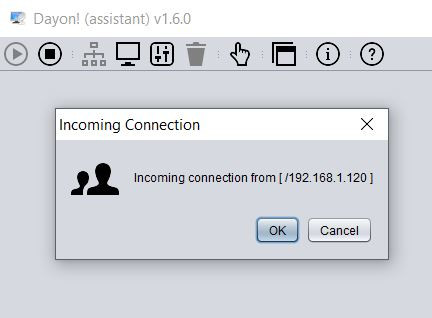
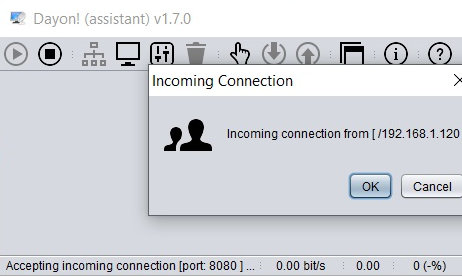
Updated documentation

diff --git a/docs/fr_quickstart.html b/docs/fr_quickstart.html
@@ -20,16 +20,16 @@
 		<div id="content">
 			<h2>Premier Pas</h2>
 			<p>
-				Typiquement, l'<i>assistant</i> discute avec l'<i>assisté</i> en utilisant Skype, le téléphone, son IM préféré, ou n'importe quel autre outil. Ensuite, en démarrant Dayon! il peut visualiser en direct l'écran de l'ordinateur de l'<i>assisté</i>.
+				Typiquement, l'<i>assistant</i> discute avec l'<i>assistée</i> en utilisant Skype, le téléphone, son IM préféré, ou n'importe quel autre outil. Ensuite, en démarrant Dayon! il peut visualiser en direct l'écran de l'ordinateur de l'<i>assistée</i>.
 			<p>Notez que les images sur cette page correspondent à la version anglaise mais que l'application elle-même est complètement traduite. Je pense que cela ne devrait pas vous empêcher de comprendre l'essentiel.
 			<p>
 				<img src="assistant.png" alt="Assistant"> &nbsp; <a name="assistant-setup"><b>Mise en Route Coté Assistant</b></a>
 			<p>
-				Dayon! Assistant se comporte comme une application serveur (vers laquelle l'<i>assisté</i> va se connecter). Vous devez donc configurer le réseau pour rendre votre application visible depuis l'extérieur. La première chose à faire est de configurer le
+				Dayon! Assistant se comporte comme une application serveur (vers laquelle l'<i>assistée</i> va se connecter). Vous devez donc configurer le réseau pour rendre votre application visible depuis l'extérieur. La première chose à faire est de configurer le
 				numéro de <b>port d'écoute</b> comme indiqué sur l'image suivante. Ensuite, il faudra autoriser ce port dans votre <b>parefeu</b> et sans doute configurer un service <b>NAT</b> sur votre routeur DSL.<br> <img src="assistant_network_settings.jpg"
 					alt="Dayon! Assistant: Network Settings">
 			<p>
-				Ensuite, vous devez décider quelle <b>addresse IP</b> vous voulez communiquer à l'<i>assisté</i> pour qu'il se connecte sur votre ordinateur; vous devez en principe donner votre addresse IP <b>publique</b>. Mais pour un test sur votre réseau local (ou
+				Ensuite, vous devez décider quelle <b>addresse IP</b> vous voulez communiquer à l'<i>assistée</i> pour qu'il se connecte sur votre ordinateur; vous devez en principe donner votre addresse IP <b>publique</b>. Mais pour un test sur votre réseau local (ou
 				sur votre PC en local), vous pouvez utiliser une addresse privée. Vous pouvez obtenir votre <b>addresse IP publique</b> avec le menu suivant: <img src="assistant_network_addresses.jpg" alt="Dayon! Assistant: Network IP Addresses">
 			<p>
 				Comme vous pouvez le voir sur l'image suivante, le menu contient différentes actions vous permettant de copier dans le clipboard l'<b>IP Address & Port Number</b>. Il vous sera ainsi facile de coller dans une session Skype (ou autre) ou dans un message
@@ -37,24 +37,28 @@
 			</p>
 			<img src="assistant_network_addresses_ex.jpg" alt="Dayon! Assistant: Network IP Address Actions">
 			<p>
-				<i> Noter que cette addresse IP n'est pas requise pour l'<i>assistant</i>. En effet, l'application écoute sur toutes les interfaces réseaux disponibles; mais la personne assisté va avoir besoin de ces informations.
+				<i> Noter que cette addresse IP n'est pas requise pour l'<i>assistant</i>. En effet, l'application écoute sur toutes les interfaces réseaux disponibles; mais la personne assistée va avoir besoin de ces informations.
 				</i>
 			</p>
 			<p>
-				C'est tout pour la configuration réseau; vous trouverez plus de détails <a href="#assistant-details">ci-desous</a>. Mais voyons tout d'abord comment mettre en place le côté <i>assisté</i>.
+				C'est tout pour la configuration réseau; vous trouverez plus de détails <a href="#assistant-details">ci-desous</a>. Mais voyons tout d'abord comment mettre en place le côté <i>assistée</i>.
 			<p>
-				<img src="assisted.png" alt="Assisted"> &nbsp; <a name="assisted-setup"><b>Mise en Route Coté Assisté</b></a>
-			<p>Dayon! Assisté se comporte comme un client qui appelle le monde extérieur; à ce titre il n'y a pas de configuration réseau à faire.
+				<img src="assisted.png" alt="Assisted"> &nbsp; <a name="assisted-setup"><b>Mise en Route Coté assistée</b></a>
 			<p>
-				Il faut télécharger et installer Dayon! comme sur pour le côté assistant. Et ensuite démarrer l' <i>Dayon!</i> (vous devriez avoir un raccourci sur le bureau) et entrer l'addresse IP et le numéro de port communiqué par l'<i>assistant</i>: <img
-					src="assisted_start.jpg" alt="Dayon! Assisted : Starting">
+				Dayon! assistée se comporte comme un client qui appelle le monde extérieur; à ce titre il n'y a pas de configuration réseau à faire.
+			<p>
+				Il faut télécharger et installer Dayon! comme sur pour le côté assistant. Et ensuite démarrer l' <i>Dayon!</i> (vous devriez avoir un raccourci sur le bureau) et entrer l'addresse IP et le numéro de port communiqué par l'<i>assistant</i>:
+			<p>
+				<img src="assisted_start.jpg" alt="Dayon! Assisted : Starting">
 			<p>
 				Vous serez alors promptement connecté à l'<i>assistant</i> qui sera déjà en train de regarder votre écran. Bonne session!
 			<p>
 				<img src="assistant.png" alt="Assistant"> &nbsp; <a name="assistant-details"><b>Mise en Route Coté Assistant (La Suite)</b></a>
 			<p>
 				Cette forme vous permet de configurer la façon dont l'écran est <b>capturé</b>; vous pouvez configurer l'interval de temps (en milli-seconde) entre deux captures (aka. tic-tac) ainsi que le nombre de niveau de gris. Moins de niveaux veut dire moins
-				d'information à transmettre sur le réseau (au détriment de la qualité des images). <img src="assistant_capture_settings.jpg" alt="Dayon! Assistant: Capture Settings">
+				d'information à transmettre sur le réseau (au détriment de la qualité des images).
+			<p>
+				<img src="assistant_capture_settings.jpg" alt="Dayon! Assistant: Capture Settings">
 			<p>
 				Vous pouvez ensuite configuer la méthode de <b>compression</b>; trois méthodes sont disponibles: ZIP, BZIP2 and LZMA. BZIP2 et LZMA devraient donner les meilleurs résultats mais demandent plus de CPU; elles sont bien plus compliquées que ZIP et sont de
 				plus implémentées en JAVA (ZIP étant implémenté en code natif dans le JDK).
@@ -72,13 +76,24 @@
 			<p>
 				<img src="assistant_start.jpg" alt="Dayon! Assistant : Start">
 			<p>
-				Vous pouvez maintenant demander à l'<i>assisté</i> de se connecter. Vous serez alors promptement requis d'accepter une nouvelle connexion:
+				Vous pouvez maintenant demander à l'<i>assistée</i> de se connecter. Vous serez alors promptement requis d'accepter une nouvelle connexion:
 			<p>
 				<img src="assistant_incoming_connection.jpg" alt="Dayon! Assistant : Incoming Connection">
 			<p>
 				Vous voila connecté visualisant l'ordinateur à distance.
 			<p>
-				<img src="assistant_connected.jpg" alt="Dayon! Assistant : Running">
+				<img src="assistant_connected.jpg" alt="Dayon! Assistent : Running">
+			<p>
+				En cliquant sur le bouton haut ou bas, le presse-papiers de l’assistant peut être transféré vers l’assistée (haut) ou le presse-papiers de l’assistée vers l’assistant (bas).
+			<p>
+				<img src="assistant_clipboard.jpg" alt="Dayon! Assistent : Clipboard transfer">
+			<p>
+				Actuellement pris en charge sont:
+				<ul>
+					<li>Texte: sélectionnez du texte localement ou dans la fenêtre assistée, copiez (<code>Ctl + c</code>), cliquez vers le haut ou le bas. Ensuite, le texte transmis peut être inséré dans une application locale ou distante (<code>Ctrl + v</code>).
+					<li>Fichiers: sélectionnez un ou plusieurs fichiers localement ou dans la fenêtre de la personne assistée (<code>Ctl + c</code>), cliquez vers le haut ou le bas. Ensuite, le ou les fichiers peuvent être insérés à la destination.
+				</ul>
+				<strong>Attention</strong>: Le transfert de répertoires (dossiers) n'est pas pris en charge. De plus, la fonction est très limitée pour la transmission de gros fichiers. D'une part, la vitesse de transmission est très modeste et, d'autre part, le récepteur ne peut pas recevoir de commandes ni de mouvements de souris avant la fin de la transmission.
 			<p>
 				That's all folk! Vous trouverez plus d'information sur la page <a href="fr_support.html">support</a>.
 		</div>

diff --git a/docs/de_quickstart.html b/docs/de_quickstart.html
@@ -30,11 +30,14 @@
 				geöffnet. In den meisten Fällen wird es notwendig sein, diesen Port via <b>NAT</b> auf dem <b>Router</b> an den entsprechenden Rechner weiter zu leiten. Bebilderte Schritt-für-Schritt-Anleitungen für das Einrichten von Portweiterleitungen für die
 				gängigsten Router Modelle finden Sie <a href="https://portforward.com/router.htm">hier</a><br> <img src="assistant_network_settings.jpg" alt="Dayon! Assistent: Network Settings">
 			<p>
-				Um die öffentliche <b>IP-Adresse</b> ihres Rechners zu ermitteln, mit welchem sich der <i>Assistierte</i> verbinden wird, klicken Sie auf <b>Ermittle meine IP-Adresse (öffentlich)</b>. Fürs Testen im LAN genügt hingegen die private IP-Adresse:<br>
+				Um die öffentliche <b>IP-Adresse</b> ihres Rechners zu ermitteln, mit welchem sich der <i>Assistierte</i> verbinden wird, klicken Sie auf <b>Ermittle meine IP-Adresse (öffentlich)</b>. Fürs Testen im LAN genügt hingegen die private IP-Adresse:
+			<p>
 				<img src="assistant_network_addresses.jpg" alt="Dayon! Assistent: Network IP-Adressees">
 			<p>
 				Wie Sie im nächsten Bild erkennen, enthält das Menü auch eine Rubrik <b>Kopiere IP-Adresse & Portnummer</b>, welche die IP-Adresse und die zuvor konfigurierte Portnummer in die Zwischenablage kopiert. So können Sie diese Informationen beispielsweise
-				einfach in ihre <b>Chat-Sitzung</b> (z.B. Skype) oder in eine E-Mail einfügen.<br> <img src="assistant_network_addresses_ex.jpg" alt="Dayon! Assistent: Network IP-Adresse Actions">
+				einfach in ihre <b>Chat-Sitzung</b> (z.B. Skype) oder in eine E-Mail einfügen.
+			<p>
+				<img src="assistant_network_addresses_ex.jpg" alt="Dayon! Assistent: Network IP-Adresse Actions">
 			<p>
 				<i>Beachten Sie dass die IP-Adresse für den Assistenten irrelevant ist, da die Applikation an allen verfügbaren Netzwerkschnittstellen horcht; Sie benötigen diese Angaben jedoch um sie dem Assistierten zu kommunizieren. (mehr zu diesem Thema
 					später). </i>
@@ -42,7 +45,8 @@
 				Das wär's bezüglich Netzwerkkonfiguration; Sie finden weitere Details <a href="#assistant-details">weiter unten</a>. Lassen Sie uns zuerst einen Blick auf die Konfiguration des <i>Assistierten</i> werfen.
 			<p>
 				<img src="assisted.png" alt="Assistierter"> &nbsp; <a name="assistant-setup"><b>Konfiguration Assistierter</b></a>
-			<p>Der Assistierte (Dayon!) ist eine Client-Anwendung, welche den Assistenten kontaktiert. Dadurch entfallen allfällige Netzwerkkonfigurationen auf dieser Seite.
+			<p>
+				Der Assistierte (Dayon!) ist eine Client-Anwendung, welche den Assistenten kontaktiert. Dadurch entfallen allfällige Netzwerkkonfigurationen auf dieser Seite.
 			<p>
 				Dayon! herunter laden und installieren (identisch wie beim Assistenten). Danach die <i>Dayon!</i> Applikation starten (Sie sollten eine entsprechende Verknüpfung auf ihrem Desktop vorfinden) und die vom <i>Assistenten</i> mitgeteilte IP-Adresse und
 				Portnummer eintragen:<br> <img src="assisted_start.jpg" alt="Dayon! Assistierter : Starting">
@@ -51,7 +55,8 @@
 			<p>
 				<img src="assistant.png" alt="Assistent"> &nbsp; <a name="assistant-details"><b>Mehr zur Konfiguration des Assistenten</b></a>
 			<p>
-				Hier kann der <i>Assistent</i> definieren, wie der Bildschirm des <i>Assistierten</i> <b>erfasst</b> werden soll; Es kann sowohl der Intervall (in Millisekunden) zwischen zwei Aufnahmen (Tick), als auch die Anzahl Graustufen definiert werden.<br>
+				Hier kann der <i>Assistent</i> definieren, wie der Bildschirm des <i>Assistierten</i> <b>erfasst</b> werden soll; Es kann sowohl der Intervall (in Millisekunden) zwischen zwei Aufnahmen (Tick), als auch die Anzahl Graustufen definiert werden.
+			<p>
 				<img src="assistant_capture_settings.jpg" alt="Dayon! Assistent: Capture Settings">
 			<p>
 				Da kann die <b>Komprimierung</b> festgelegt werden; Es stehen drei verschiedene Methoden zur Auswahl: ZIP, BZIP2 und LZMA. BZIP2 und LZMA sollten für einen besseren Komprimierungsgrad sorgen, benötigen aber etwas mehr Rechenleistung (verursachen
@@ -77,6 +82,17 @@
 				Nun sind Sie mit dem entfernten Computer verbunden und sehen dessen Desktop:
 			<p>
 				<img src="assistant_connected.jpg" alt="Dayon! Assistent : Running">
+			<p>
+				Mittels Klick auf den Up- resp. Down-Button, kann die entweder die Zwischenablage des Assistenten an den Assistierten (Up) oder die Zwischenablage des Assistierten an den Assistenten (Down) übertragen werden.
+			<p>
+				<img src="assistant_clipboard.jpg" alt="Dayon! Assistent : Clipboard transfer">
+			<p>
+				Unterstützt werden zur Zeit:
+			    <ul>
+					<li>Text: Lokal oder im Fenster des Assistierten Text markieren, kopieren (<code>ctl + C</code>) Up oder Down klicken. Anschliessend kann der übertagene Text in einer lokalen oder entfernten Anwendung eingefügt werden (<code>ctrl + v</code>).
+					<li>Dateien: Lokal oder im Fenster des Assistierten eine oder mehrere Dateien markieren, kopieren (<code>ctl + C</code>) Up oder Down klicken. Anschliessend kann/können die Datei/en am Zielort eingefügt werden.
+				</ul>
+				<strong>Achtung</strong>: Das Übertragen von Verzeichnissen (Ordnern) wird nicht unterstützt. Des weiteren eignet sich die Funktion nur sehr beschränkt für die Übertragung von grossen Dateien. Zum einen ist die Übertragungsgeschwindigkeit sehr bescheiden und zum anderen kann der Empfänger bis zum Abschluss der Übertragung keine Befehle oder Mausbewegungen empfangen.
 			<p>
 				Das ist alles! Weitere Informationen finden Sie auf der <a href="de_support.html">Support</a> Seite.
 		</div>

diff --git a/docs/quickstart.html b/docs/quickstart.html
@@ -31,7 +31,8 @@
 				Then you've to determine which <b>IP address</b> you want to give to the <i>assisted</i> to connect to the <i>assistant</i>; you should typically give your <b>public</b> IP address. But for testing within your local network you might want to use a
 				different one. You can retrieve your <b>public IP address</b> with the following menu:<br> <img src="assistant_network_addresses.jpg" alt="Dayon! Assistant: Network IP Addresses">
 			<p>
-				As you can see on the following picture, the menu contains an item to copy to the clipboard the actual <b>IP Address & Port Number</b>. It is then easy to <b>paste it into a chat session</b> (e.g., Skype) or into an email.<br>
+				As you can see on the following picture, the menu contains an item to copy to the clipboard the actual <b>IP Address & Port Number</b>. It is then easy to <b>paste it into a chat session</b> (e.g., Skype) or into an email.
+			<p>
 				<img src="assistant_network_addresses_ex.jpg" alt="Dayon! Assistant: Network IP Address Actions">
 			<p>
 				<i>Note that this IP address is not required by the assistant application as it is listening on all the available network interfaces; but you need to communicate it to the assisted. (more on this later). </i>
@@ -39,17 +40,20 @@
 				That's it regarding the network configuration; you'll find more details <a href="#assistant-details">hereafter</a> in this page. But let's see first how to setup the <i>assisted</i> side.
 			<p>
 				<img src="assisted.png" alt="Assisted"> &nbsp; <a name="assisted-setup"><b>Setup the Assisted Computer</b></a>
-			<p>Dayon! Assisted is acting as a client application calling the outside world and as such there's no network configuration to setup.
 			<p>
-				Download and install the Dayon! application as for the assistant side. Then start the <i>Dayon!</i> application (you should have a shortcut on the desktop) and enter both the IP address and the port number as communicated by the <i>assistant</i>: <img
-					src="assisted_start.jpg" alt="Dayon! Assisted : Starting">
+				Dayon! Assisted is acting as a client application calling the outside world and as such there's no network configuration to setup.
+			<p>
+				Download and install the Dayon! application as for the assistant side. Then start the <i>Dayon!</i> application (you should have a shortcut on the desktop) and enter both the IP address and the port number as communicated by the <i>assistant</i>:
+			<p>
+				<img src="assisted_start.jpg" alt="Dayon! Assisted : Starting">
 			<p>
 				You'll then be shortly connected to the <i>assistant</i> that is monitoring your screen. Enjoy!
 			<p>
 				<img src="assistant.png" alt="Assistant"> &nbsp; <a name="assistant-details"><b>More on the Assistant Setup</b></a>
 			<p>
-				Use that form to setup how the <i>assisted</i> screen is going to be <b>captured</b>; you can configure the time (in milliseconds) between two captures (aka. tick) as well as the number of gray levels.<br> <img src="assistant_capture_settings.jpg"
-					alt="Dayon! Assistant: Capture Settings">
+				Use that form to setup how the <i>assisted</i> screen is going to be <b>captured</b>; you can configure the time (in milliseconds) between two captures (aka. tick) as well as the number of gray levels.
+			<p>
+				<img src="assistant_capture_settings.jpg" alt="Dayon! Assistant: Capture Settings">
 			<p>
 				You can then setup the <b>compression</b> method; three methods are available: ZIP, BZIP2 and LZMA. BZIP2 and LZMA should give a better compression ratio but requires more CPU as they're much more complicated than ZIP and are currently implemented in
 				JAVA (ZIP is being implemented using some native code in the JDK).
@@ -74,6 +78,17 @@
 				You're now connected and monitoring the remote computer.
 			<p>
 				<img src="assistant_connected.jpg" alt="Dayon! Assistant : Running">
+			<p>
+				By clicking on the up- or down button, the clipboard of the assistant can either be transferred to the assisted (up) or the clipboard of the assisted to the assistant (down).
+			<p>
+				<img src="assistant_clipboard.jpg" alt="Dayon! Assistent : Clipboard transfer">
+			<p>
+				Currently supported are:
+				<ul>
+					<li>Text: Select text locally or in the assisted window, copy (<code>Ctl + c</code>), click up or down. Subsequently, the transmitted text can be inserted in a local or remote application (<code>Ctrl + v</code>).
+					<li>Files: Select one or more files locally or in the window of the assisted person (<code>Ctl + c</code>), click up or down. Subsequently, the file(s) can be inserted at the destination.</li>
+				</ul>
+				<strong>Caution</strong>: Transferring directories (folders) is not supported. Furthermore, the function is very limited for the transmission of large files. On the one hand, the transmission speed is very modest and, on the other hand, the receiver can not receive commands or mouse movements until completion of the transmission.
 			<p>
 				That's all folk! You can find more information in the <a href="support.html">support</a> page.
 		</div>

diff --git a/docs/fr_support.html b/docs/fr_support.html
@@ -23,9 +23,9 @@
 				Vous pouvez poster une question ou ouvrir un issue sur <a href="https://github.com/retgal/dayon/issues">GitHub</a>.
 			<h3>Problèmes Connus</h3>
 			<ul>
-				<li>Le support (version 1.6) du clavier est toujours plutôt minimal; il n'y pas moyen pour le moment d'envoyer des signaux et quelques combinaisons de touches ne sont pas supportées correctement (e.g., <code>CTRL-ALT-DEL</code>).
+				<li>Le support (version 1.7) du clavier est toujours plutôt minimal; il n'y pas moyen pour le moment d'envoyer des signaux et quelques combinaisons de touches ne sont pas supportées correctement (e.g., <code>Ctrl-Alt-Del</code>).
 				<li>Curseur de la souris: à cause de problème JAVA, le curseur de la souris n'est pas correctement dessiné pendant par example le déplacement des fenêtres..
-				<li>En raison des contraintes de sécurité plus rigides, Java Web Start de l'application assistée ne fonctionne pas avec les versions plus récentes de JAVA (>1.7.45) .
+				<li>En raison des contraintes de sécurité plus rigides, Java Web Start de l'application assistéee ne fonctionne pas avec les versions plus récentes de JAVA (>1.7.45) .
 			</ul>
 			<h3>Propriétés du processus JAVA</h3>
 			<p>
@@ -38,11 +38,11 @@
 				Le répertoire <code>.dayon</code> est créé dans le répertoire référencé par le JAVA Propriété <code>user.home</code> et contient les préférences utilisateur enregistrées et le journal par défaut fichiers.
 			<h3>Somme de contrôle CRC</h3>
 			<p>
-				Sur le côté de l'assisté, l'écran est divisé en différentes zones appelées <i>tuiles</i>. Seules les tuiles qui ont été modifiées depuis la capture précédente sont envoyées sur le Côté assistant. Pour déterminer si une tuile est différente, je suis en
+				Sur le côté de l'assistée, l'écran est divisé en différentes zones appelées <i>tuiles</i>. Seules les tuiles qui ont été modifiées depuis la capture précédente sont envoyées sur le Côté assistant. Pour déterminer si une tuile est différente, je suis en
 				train de calculer un code CRC (C'est-à-dire, une valeur entière unique représentant les pixels de la tuile) qui n'est pas parfaite Par souci de rapidité. Il se peut donc que certaines tuiles <i>changées</i> ne soient pas envoyées à l'assistant.
 			<p>
 				Jusqu'à présent, j'ai détecté ce problème lors de tests forts pour très peu de pixels. Visuellement, Je n'ai rien remarqué de sérieux. Mais au cas où les choses vont fou, vous pouvez ensuite redémarrer L'aide ou avant d'essayer l'action <code>reset</code>
-				(<b> l'icône orange de la foudre </b>) Qui devrait effacer toutes les données en cache et renvoyer une capture plein écran à partir de zéro.
+				(<b> l'icône poubelle</b>) Qui devrait effacer toutes les données en cache et renvoyer une capture plein écran à partir de zéro.
 			<h3>Compteurs de statistiques</h3>
 			<img src="stats_counters.jpg" alt="Dayon! Assistant : Statistics">
 			<p>La barre d'état du cadre assistant affiche un ensemble de compteurs.

diff --git a/docs/support.html b/docs/support.html
@@ -23,7 +23,7 @@
 				Post your question or open a new issue on <a href="https://github.com/retgal/dayon/issues">GitHub</a>.
 			<h3>Known Limitations</h3>
 			<ul>
-				<li>As of version 1.6, the keyboard control support is still quite minimal; there's currently no way to send some signals and some key combinations are not properly supported (e.g., <code>CTRL-ALT-DEL</code>).
+				<li>As of version 1.7, the keyboard control support is still quite minimal; there's currently no way to send some signals and some key combinations are not properly supported (e.g., <code>Ctrl-Alt-Del</code>).
 				<li>Mouse cursor: due to JAVA limitations, the mouse cursor during for example the resize or the move of a window is not properly rendered.
 				<li>Due to more rigid security constraints, Java Web Start of the assisted application does not work with newer JAVA versions (>1.7.45).
 			</ul>
@@ -41,8 +41,7 @@
 				On the assisted side, the screen is divided into different areas called <i>tiles</i>. Only tiles that have changed from the previous capture are sent over the network to the assistant side. To determine if a tile is different I'm currently computing a
 				CRC code (i.e., a unique integer value representing the pixels of the tile) that is not perfect for the sake of speed. So it might happens that some <i>changed</i> tiles are not sent to the assistant.
 			<p>
-				Until now I've detected that issue during strong testing for very few pixels. Visually, I've not noticed anything serious. But in case things are going mad you can then restart the assisted or before try the <code>reset</code> action (<b>the orange
-					lightning icon</b>) that should clear every cached data and resend a full screen capture from scratch.
+				Until now I've detected that issue during strong testing for very few pixels. Visually, I've not noticed anything serious. But in case things are going mad you can then restart the assisted or before try the <code>reset</code> action (<b>trash bin icon</b>) that should clear every cached data and resend a full screen capture from scratch.
 			<h3>Statistics Counters</h3>
 			<img src="stats_counters.jpg" alt="Dayon! Assistant : Statistics">
 			<p>The status bar of the assistant frame is displaying a set of counters.

diff --git a/docs/de_support.html b/docs/de_support.html
@@ -23,7 +23,7 @@
 				Posten Sie eine Frage oder erfassen Sie ein Issue auf <a href="https://github.com/retgal/dayon/issues">GitHub</a>.
 			<h3>Bekannte Einschränkungen</h3>
 			<ul>
-				<li>Auch in Version 1.6 ist die Tastaturunterstützung noch immer ziemlich minimalistisch; Es gibt zZt. keine Möglichkeit gewisse Tastenkombinationen wie etwa (e.g., <code>CTRL-ALT-DEL</code>) an den entfernten Computer zu senden.
+				<li>Auch in Version 1.7 ist die Tastaturunterstützung noch immer ziemlich minimalistisch; Es gibt zZt. keine Möglichkeit gewisse Tastenkombinationen wie etwa (e.g., <code>Ctrl-Alt-Del</code>) an den entfernten Computer zu senden.
 				<li>Mauszeiger: technologisch (JAVA) bedingt, wird der Mauszeiger während dem Vergrössern oder Bewegen von Fenstern mitunter nicht sauber dargestellt.
 				<li>Wegen verschärften Sicherheitseinstellungen, funktioniert der <i>Java Web Start</i> der Applikation des <i>Assistierten</i> mit neueren JAVA Versionen (>1.7.45) leider nicht mehr.
 			</ul>
@@ -42,7 +42,7 @@
 				<i>veränderte</i> Kacheln nicht an den Assistenten gesandt werden.
 			<p>
 				Bis jetzt konnte rein durch intensives Testen Verfälschungen von einigen Pixeln entdeckt werden. Visuell konnte bis anhin nichts ernsthaft störendes festgestellt werden. Sollte in der Praxis in dieser Hinsicht Mal etwas aus dem Ruder laufen, kann
-				entweder die Applikation des Assistierten neu gestartet, oder dessen Puffer zurück gesetzt werden. (<b>oranges Pfeilsymbol</b>).
+				entweder die Applikation des Assistierten neu gestartet, oder dessen Puffer zurück gesetzt werden. (<b>Abfallkübelsymbol</b>).
 			<h3>Statistiken in Statusleiste</h3>
 			<img src="stats_counters.jpg" alt="Dayon! Assistant : Statistics">
 			<p>Die Statusleiste des Assistenten zeigt folgende Zähler an:

diff --git a/docs/fr_index.html b/docs/fr_index.html
@@ -39,12 +39,9 @@
 				<p>Dayon! transmet des images compressées de 256 niveaux de grix pour minimiser au maximum l'utilisation du réseau. La qualité de ces images est largement suffisante pour visualiser l'écran à distance et expliquer les différents menus, icônes et
 					découvrir les différentes configurations de l'ordinateur distant.
 			</div>
-			<h2>Status (1.6)</h2>
-			<p>La version 1.6 (Solenodon) vient avec une apparence rafraîchie. Aussi techniquement beaucoup de choses se sont passées 			<ul>
-				<li>toutes les bibliothèques utilisées ont été mises à jour
-				<li>la base de code a été migrée vers JAVA 8
-				<li>le projet peut maintenant aussi être construit avec Maven
-			</ul>
+			<h2>Status (1.7)</h2>
+			<p>La version 1.7 (Tesler) dispose d’un protocole de communication étendu et révisé, qui permet le transfert du presse-papiers dans les deux sens (depuis ou vers l’assistant/l’assistée). Avec cette nouvelle fonctionnalité, les textes et les fichiers peuvent être transférés pour la première fois.<br><br>
+				En raison du manque de matériel, je n'ai pu tester cette fonction que sous Windows 10, Debian et Ubuntu. Les commentaires des utilisateurs de Mac OS seraient les bienvenus!
 			<h2>Pourquoi Dayon!</h2>
 			<p>Marc Polizzi avait développé Dayon! pour aider ces parents et amis en Europe à utiliser leur ordinateur, quand lui il vivait aux Philippines.</p>
 			<p>Il ne voulait pas qu'ils installent leur pare-feu et le routeur DSL/câble et NAT et tout ce qui est nécessaire pour qu'il puisse accéder à leur machine à l'aide d'une connexion de bureau à distance. Donc, il a décidé de mettre en œuvre quelque

diff --git a/docs/de_index.html b/docs/de_index.html
@@ -38,13 +38,9 @@
 				<p>Dayon! reduziert die benötigte Bandbreite auf ein absolutes Minimum. Die komprimierten und gecachten Bilder werden in Graustufen (bis zu 256 Stufen) übermittelt. Dies ermöglicht eine nahezu Echtzeit-Erfahrung via Internet. Für eine Hilfestellung
 					aus der Ferne reichen die Graustufenbilder allemal.
 			</div>
-			<h2>Status (1.6)</h2>
-			<p>Release 1.6 (Solenodon) kommt mit einem aufgefrischen Look and Feel daher. Auch in technischer Hinsicht hat sich einiges getan:
-			<ul>
-				<li>sämtliche eingesetzten Bibliotheken sind aktualisiert worden
-				<li>die Codebasis ist auf JAVA 8 migriert
-				<li>das Projekt lässt sich nun auch mit Maven bauen
-			</ul>
+			<h2>Status (1.7)</h2>
+			<p>Release 1.7 (Tesler) besitzt ein überarbeitetes, erweitertes Kommunikationsprotokoll, welches den Transfer der Zwischenablage in beide Richtungen (vom oder zum Assistenten/Assistierten) ermöglicht. Mit dieser neuen Funktionalität können erstmalig Texte und Dateien transferiert werden.<br><br>
+			   Mangels entsprechender Hardware konnte ich diese Funktion allerdings bloss mit Windows 10, Debian und Ubuntu testen - Feedback von Mac OS Anwendern wäre sehr willkommen!
 			<h2>Hintergrund</h2>
 			<p>Marc Polizzi entwickelte Dayon! während seiner Zeit in den Philippinen, als er mit seiner Familie und seinen Freunden in Europa via Skype kommunizierte.
 			<p>Er wollte ihnen weiterhin bei ihren alltäglichen Computerproblemen helfen, ohne dass sie hierfür ihre Firewall oder DSL-/Kabelrouter um konfigurieren mussten, nur damit er auf ihren Desktop zugreifen konnte. Also hat er in seiner Freizeit ein

diff --git a/docs/index.html b/docs/index.html
@@ -38,13 +38,9 @@
 				<p>Dayon! is sending compressed and cached gray (up to 256 levels) pictures to minimize the network usage offering as much as possible a real-time experience over the Internet. Those pictures are far enough for monitoring and explaining the
 					different menus, icons and discovering the computer setup, etc...
 			</div>
-			<h2>Status (1.6)</h2>
-			<p>Release 1.6 (Solenodon) comes with a refreshed look and feel. Also technically a lot has happened:
-			<ul>
-				<li>all used libraries have been updated
-				<li>the codebase has been migrated to JAVA 8
-				<li>the project can now also be built with Maven
-			</ul>
+			<h2>Status (1.7)</h2>
+			<p>Release 1.7 (Tesler) has a revised, extended communication protocol, which allows the transfer of the clipboard in both directions (from or to the assistant/assisted). With this new functionality, texts and files can be transferred for the first time.<br><br>
+				Due to the lack of hardware I could only test this function with Windows 10, Debian and Ubuntu - Feedback from Mac OS users would be very welcome!
 			<h2>Rational</h2>
 			<p>Marc Polizzi has developed Dayon! when he was living in the Philippines and was communicating with his family and friends back in Europe over Skype.
 			<p>He did not wanted them to setup their firewall and DSL/cable router and NAT and whatever required so that he could access their machine using a remote desktop connection. So, he decided to implement something very simple in my his free time and

diff --git a/docs/fr_download.html b/docs/fr_download.html
@@ -32,6 +32,12 @@
 			<p>
 				<b>Mac OS/OS X:</b> extrayez le fichier TGZ à une location de votre choix. Pour plus de commodité, vous pouvez créer un alias pour bin/dayon_assisted et bin/dayon_assistant et les copier sur votre bureau. (JDK > 1.7 nécessaire)
 			<h2>Journal des modifications</h2>
+			<h3>Modifications pour Dayon! v1.7 Tesler (21 février 2019) <span class="red">*</span></h3>
+			<ul>
+				<li>Transfér du presse-papier
+				<li>Bibliothèques mises à jour
+				<li>JRE actualisé
+			</ul>
 			<h3>Modifications pour Dayon! v1.6 Solenodon (19 decembre 2018) <span class="red">*</span></h3>
 			<ul>
 				<li>Nouveau look and feel
@@ -50,7 +56,7 @@
 			</ul>
 			<h3>Modifications pour Dayon! v1.4 Skytale (3 janvier 2017) <span class="red">*</span></h3>
 			<ul>
-				<li>Communication crypté entre l'assistant et l'assisté
+				<li>Communication crypté entre l'assistant et l'assistée
 				<li>Installeur pour Windows optimisé
 				<li>Localisation allemande
 			</ul>
@@ -67,7 +73,7 @@
 			<ul>
 				<li>Correction d'un écran noir possible (assistant) au démarrage
 				<li>Support de contrôle
-				<li>Java Web Start pour lancer l' assisté
+				<li>Java Web Start pour lancer l' assistée
 				<li>Service d'adresse IP publique (<a href="http://dayonhome.sourceforge.net/whatismyip.php">dayonhome.sourceforge.net/whatismyip.php</a>)
 				<li>Améliorations au guide de démarrage rapide
 				<li>Localisation française

diff --git a/docs/de_download.html b/docs/de_download.html
@@ -32,6 +32,12 @@
 			<p>
 				<b>Mac OS/OS X:</b> das Paket an einen Ort ihrer Wahl entpacken. Ev. einen Alias für bin/dayon_assisted und bin/dayon_assistant erstellen und auf den Desktop kopieren. (Voraussetzung: installiertes JDK > 1.7).
 			<h2>Changelog</h2>
+			<h3>Änderungen Dayon! v1.7 Tesler (21. Februar 2019) <span class="red">*</span></h3>
+			<ul>
+				<li>Transfer der Zwischenablage
+				<li>Aktualisierte Bibliotheken
+				<li>Aktualisierte JRE
+			</ul>
 			<h3>Änderungen Dayon! v1.6 Solenodon (19. Dezember 2018) <span class="red">*</span></h3>
 			<ul>
 				<li>Neues Look and Feel

diff --git a/docs/download.html b/docs/download.html
@@ -31,6 +31,12 @@
 			<p>
 				<b>Mac OS/OS X:</b> extract the package to a location of your choice. For more convenience you may want to create an alias for bin/dayon_assisted and bin/dayon_assistant and copy them to your desktop. (JDK > 1.7 required)
 			<h2>Change log</h2>
+			<h3>Changes in Dayon! v1.7 Tesler (February 21th, 2019) <span class="red">*</span></h3>
+			<ul>
+				<li>Clipboard transfer
+				<li>Updated libraries
+				<li>Updated JRE
+			</ul>
 			<h3>Changes in Dayon! v1.6 Solenodon (December 19th, 2018) <span class="red">*</span></h3>
 			<ul>
 				<li>New look and feel
